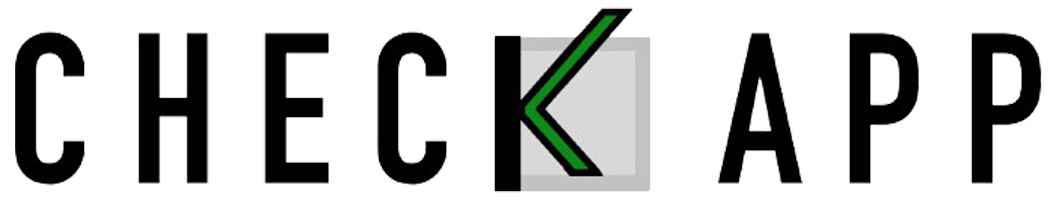
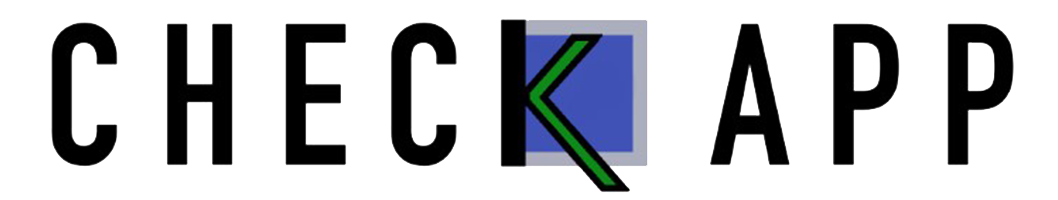
Ajustes de imagem, login e header.

diff --git a/src/app/view/login/login.component.html b/src/app/view/login/login.component.html
@@ -1,8 +1,10 @@
-<div class="login-wrapper body" fxLayout="row" fxLayoutAlign="center center">
-  <mat-card class="box">
+<div class="login-wrapper body" fxLayout="column" fxLayoutAlign="center center">
+  <div>
+    <img class="logo" src="../../../../assets/img/checkapp.png" alt="logo" />
+  </div>
+  <mat-card class="box mat-elevation-z6">
     <mat-card-header>
-      <mat-card-title> CheckApp</mat-card-title>
-      <span class="subtitle-card">Log in</span>
+      <mat-card-title> Log in</mat-card-title>
     </mat-card-header>
 
     <form [formGroup]="formLogin" (ngSubmit)="onSubmit()">
@@ -32,9 +34,9 @@
         </mat-form-field>
       </mat-card-content>
       <button
-        mat-stroked-button
+        mat-stroked-button       
         color="accent"
-        class="btn-block"
+        class="btn-login"
         [disabled]="isLoading"
       >
       <mat-progress-bar *ngIf="isLoading" mode="indeterminate"></mat-progress-bar>

diff --git a/src/app/view/login/login.component.css b/src/app/view/login/login.component.css
@@ -5,7 +5,7 @@
 }
 .body {
     background-image: url(
-        '../../../assets/img/extintor.jpg'
+        '../../../assets/img/fundoChk.jpg'
     );
   background-position: center;
   background-size: cover;
@@ -13,6 +13,11 @@
   min-height: 100vh;
   font-family: "Roboto", sans-serif;
 }
+
+.logo {
+  height: 70px;
+}
+
 .title-card {
   margin-bottom: 10px;
 }
@@ -72,8 +77,9 @@
   max-width: 300px;
   width: 100%;
 }
+
 .login-wrapper .example-full-width,
-.login-wrapper .btn-block {
+.login-wrapper .btn-login {
   width: 100%;
 }
 .login-wrapper mat-card-header {

diff --git a/src/app/components/template/nav/nav.component.html b/src/app/components/template/nav/nav.component.html
@@ -2,7 +2,7 @@
 <mat-toolbar class="header mat-elevation-z6 app-header">
   <span class="title-group" fxShow.xs="false" fxShow="true">
     <a routerLink="/home">
-      <img class="logo" src="assets/img/checkApp.png" alt="logo" />
+      <img class="logo" src="../../../../assets/img/checkapp.png" alt="logo" />
     </a>
   </span>
   <div class="container-btn-toglles-sidenav" fxShow.gt-xs="false" fxShow="true">
